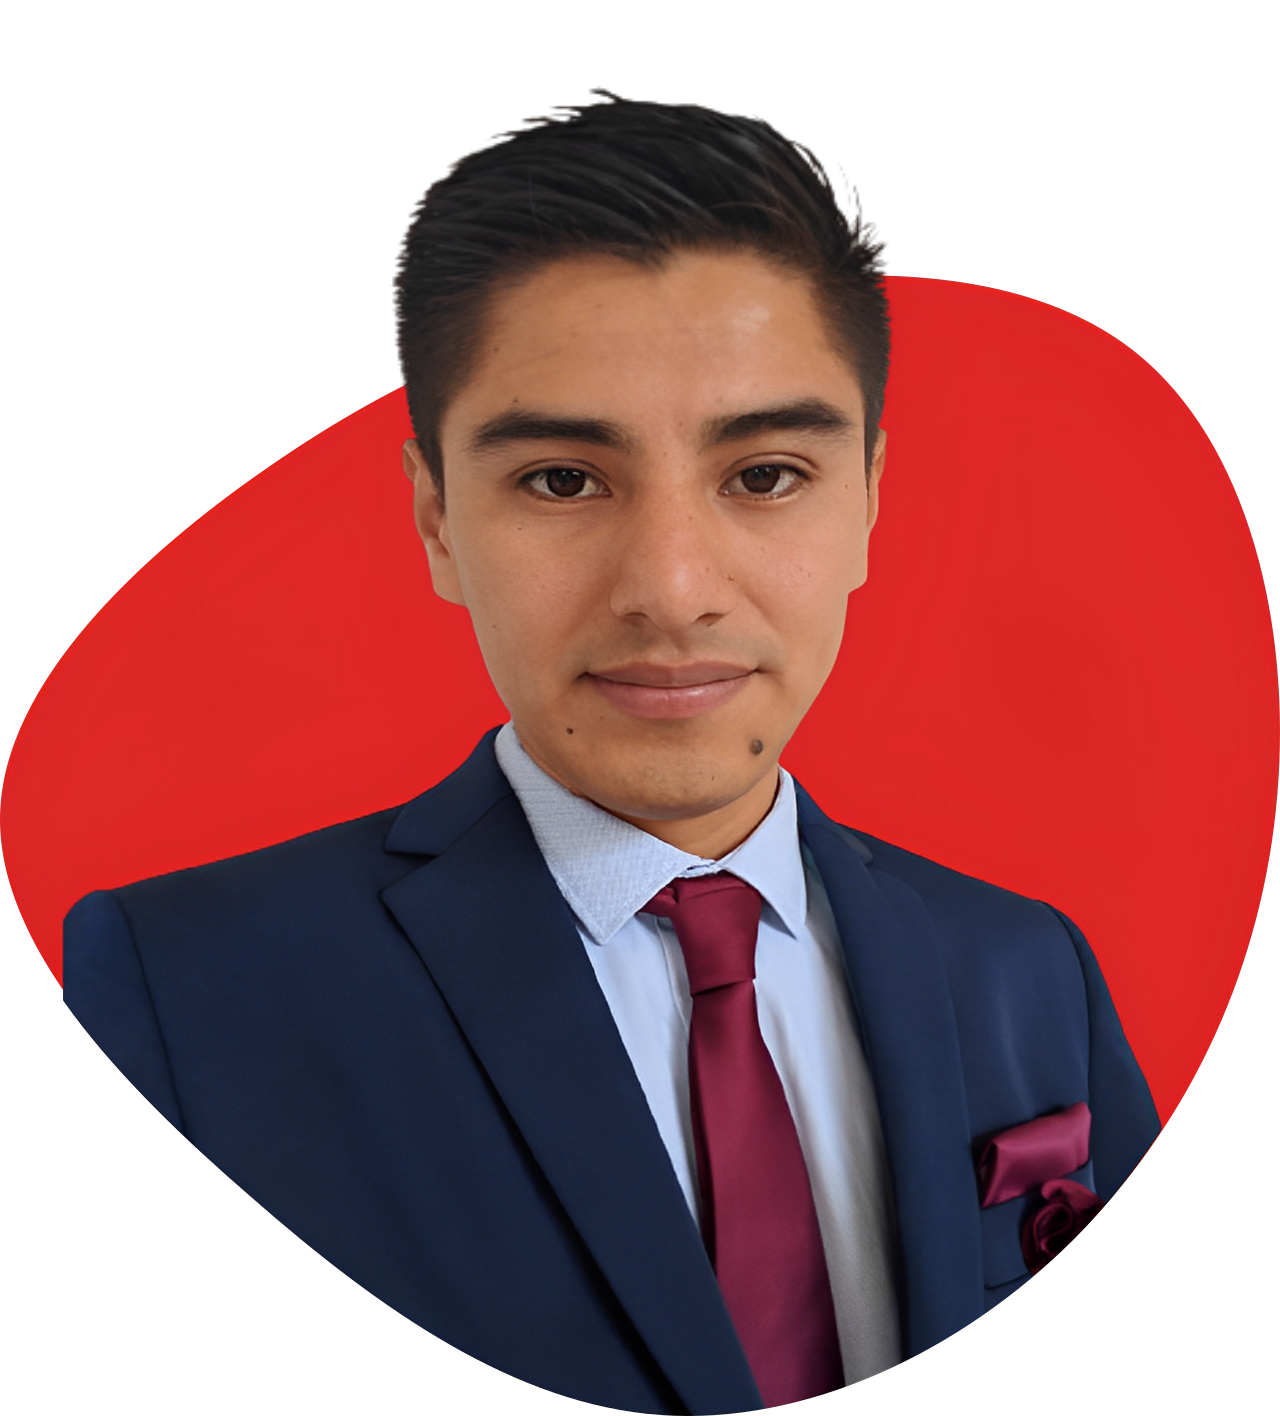
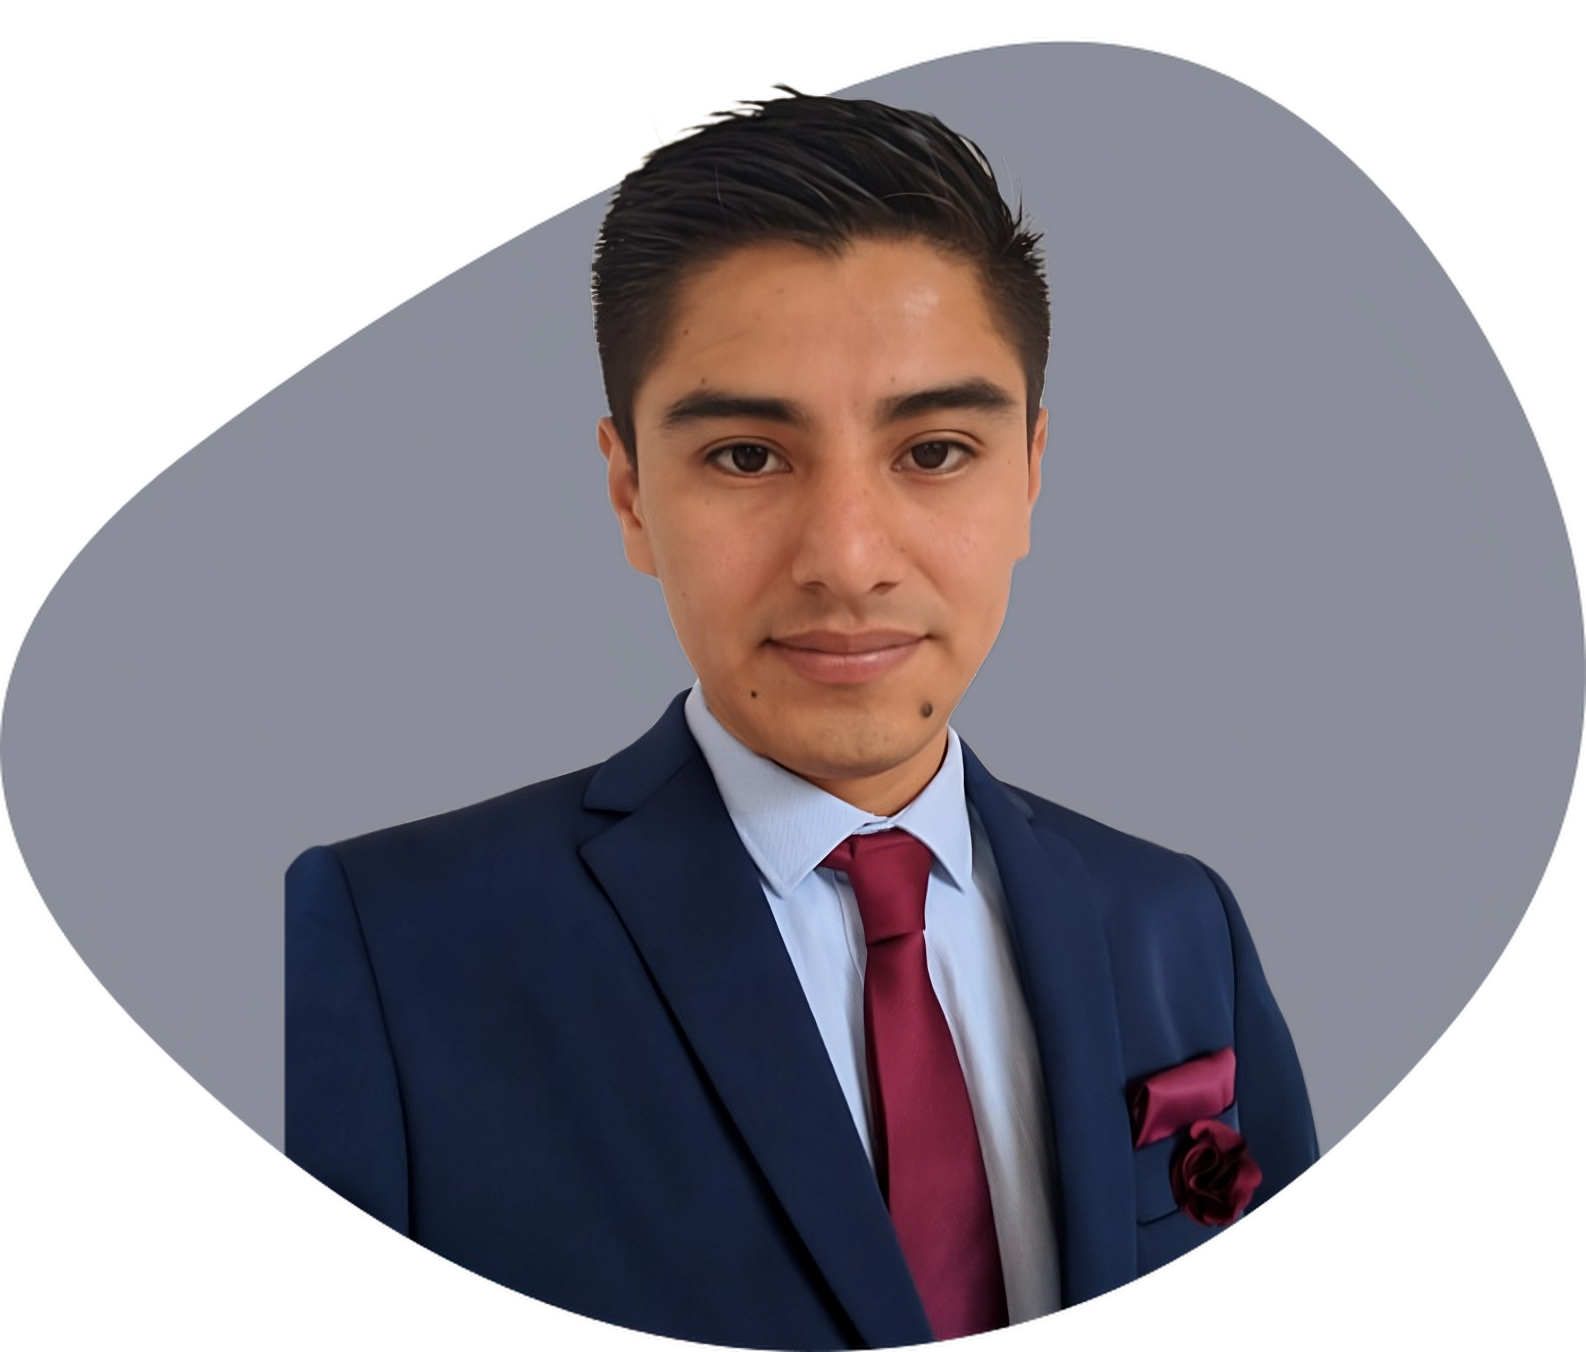
profile image

diff --git a/src/pages/_app.tsx b/src/pages/_app.tsx
@@ -5,7 +5,6 @@ import classNames from 'classnames';
 import { Poppins } from 'next/font/google';
 import { config } from '@fortawesome/fontawesome-svg-core';
 import { usePathname } from 'next/navigation';
-import { ThemeProvider } from 'next-themes'
 
 import '@fortawesome/fontawesome-svg-core/styles.css';
 config.autoAddCss = false;
@@ -20,12 +19,10 @@ const poppins = Poppins({
 export default function App({ Component, pageProps }: AppProps) {
   const pathname = usePathname();
   return (
-    <ThemeProvider attribute="class">
-      <main className={classNames(`${poppins.variable} font-sans text-light-black`, { 'bg-light': pathname === '/' })}>
-        <Layout>
-          <Component {...pageProps} />
-        </Layout>
-      </main>
-    </ThemeProvider>
+    <main className={classNames(`${poppins.variable} font-sans text-light-black`, { 'bg-light': pathname === '/' })}>
+      <Layout>
+        <Component {...pageProps} />
+      </Layout>
+    </main>
   );
 }

diff --git a/src/components/NavBar.tsx b/src/components/NavBar.tsx
@@ -4,8 +4,7 @@ import classNames from 'classnames';
 import { FontAwesomeIcon } from '@fortawesome/react-fontawesome';
 import { useRouter } from 'next/router';
 import { Button } from '@/components/Button';
-import { useTheme } from 'next-themes';
-import { faBars, faMoon, faSun } from '@fortawesome/free-solid-svg-icons';
+import { faBars } from '@fortawesome/free-solid-svg-icons';
 
 const LINKS = [
   {
@@ -29,9 +28,7 @@ const LINKS = [
 const NavBar = () => {
   const router = useRouter();
   const [menuNavbar, setMenuNavbar] = useState(false);
-  const { systemTheme, theme, setTheme } = useTheme();
 
-  const currentTheme = theme === 'system' ? systemTheme : theme;
 
   useEffect(() => {
     router.events.on('routeChangeComplete', (url) => {

diff --git a/src/pages/index.tsx b/src/pages/index.tsx
@@ -32,7 +32,7 @@ export default function Home() {
           </div>
         </div>
         <div className="grid place-content-center col-span-2 md:col-span-1 md:order-2 relative">
-          <div className='w-[290px] h-[310px] lg:h-[400px] lg:w-[380px] relative'>
+          <div className='w-[300px] h-[300px] lg:h-[400px] lg:w-[420px] relative'>
             <Image src="/img/profile.png" alt="profile" fill priority />
           </div>
         </div>
